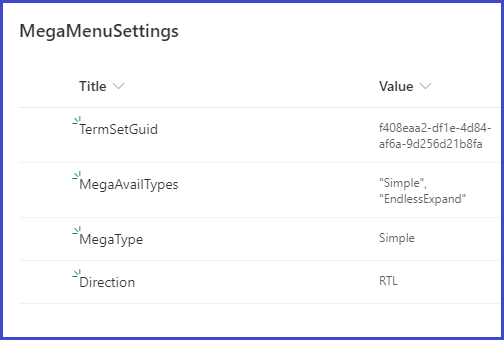
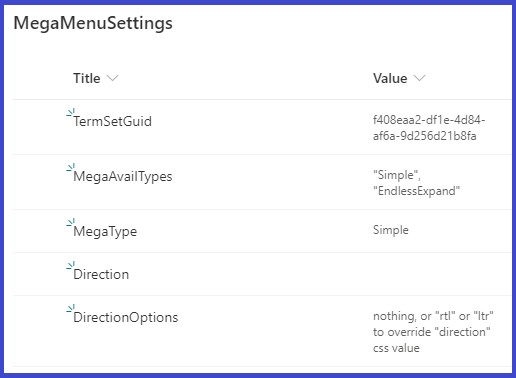
.

diff --git a/src/extensions/topNav/TopNavApplicationCustomizer.ts b/src/extensions/topNav/TopNavApplicationCustomizer.ts
@@ -38,17 +38,33 @@ export default class TopNavApplicationCustomizer
   protected onInit(): Promise<void> {/**replace func it to on get terms init init */
     console.log('SmartMegaMenu onInit 1.0')
 
-    //this.getSettings().then(()=>{
+    this.getSettings().then(()=>{
+      console.log('getSettings resolved');
 
-    this.loadScripts().then(()=>{
-      console.log('loadScripts finish (then)');
+      this.loadScripts().then(()=>{
+        console.log('loadScripts finish (then)');
 
-      this.getTermSetAsTree().then((tree)=>{
-        console.log('getTermSetAsTree finish (then)', tree);
+        this.getTermSetAsTree().then((tree)=>{
+          console.log('getTermSetAsTree finish (then)', tree);
 
-      });
+        });
+      })
+    }, /*  */ ()=>{
+      console.log('getSettings reject');
     })
     return super.onInit();
+  }
+
+  getSettings():Promise<void>{
+    return new Promise<void>((resolve, reject)=>{
+      //get list
+      //list ok
+      resolve();
+
+      //list not ok
+      reject();
+      console.error("i dont have a guid")
+    })
   }
 
   //protected onInit(): Promise<void> {

diff --git a/README.md b/README.md
@@ -14,7 +14,9 @@ Your MUST
 * create a termset
 * add the guid to the `TermSetGuid` row @`Value` column
 
-You may choose between `Simple` and `EndlessExpand` in the `MegaType` (TODO...)
+#### other settings
+* You may choose between `Simple` and `EndlessExpand` in the `MegaType` (TODO...)
+* You may set the `Direction` row to `rtl` or `ltr` values to override the `direction` css value
 
 ![How List Looks](https://github.com/bresleveloper/SPFx-Smart_MegaMenu/blob/master/readmeImage.png?raw=true)
 
